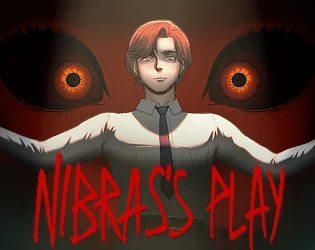
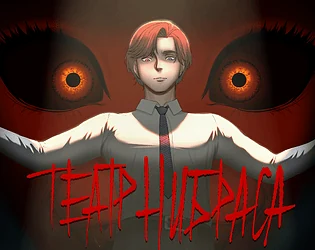
Обновить избранное, каталог и страницы игр
- Избранное: Театр Нибраса, Лопатель, A DVOR-KOLODETS
- Каталог отсортирован как в профиле itch.io: новые сверху
- Nibras's Play переименован в «Театр Нибраса», новая обложка и OG-превью, добавлена ссылка VK Play
- Авторы на странице игры — кнопки на itch-профили, блок «Над игрой работали» убран
- Удалена панель CTA со всех страниц, в шапке главной добавлена кнопка VK
- Осталась одна бегущая строка — с жанрами
- Обновлено описание в шапке главной
- README: порядок каталога, featuredSlugs, vkPlayUrl

diff --git a/src/data/games.ts b/src/data/games.ts
@@ -17,7 +17,7 @@ export type Game = {
   credits: string[];
   jam?: string;
   controls?: string;
-  featured?: boolean;
+  vkPlayUrl?: string;
   /**
    * Локальная веб-сборка, если она лежит в public/games/<slug>/.
    * Например: "/games/advorkolodets/play/"
@@ -30,7 +30,30 @@ const shot = (slug: string, n: number, title: string): Screenshot => ({
   alt: `Скриншот из игры «${title}»`,
 });
 
+/**
+ * Порядок в массиве = порядок в каталоге: сверху новые игры,
+ * как в профиле penquins.itch.io. Новую игру добавляйте в начало.
+ */
 export const games: Game[] = [
+  {
+    slug: "advorkolodets",
+    title: "A DVOR-KOLODETS",
+    tagline: "Каждый двор-колодец имеет двойное дно",
+    description: [
+      "Семья переезжает в дом с внутренним двором. Но в квартире всё чаще что-то меняется, а сосед напротив слишком внимательно смотрит из окна. Каждый двор-колодец имеет двойное дно.",
+      "Мистическая визуальная новелла о тесном дворе, чужих взглядах и неживом.",
+    ],
+    genre: "Визуальная новелла",
+    platforms: ["Windows"],
+    itchUrl: "https://penquins.itch.io/advorkolodets",
+    cover: "/covers/advorkolodets.webp",
+    screenshots: [
+      shot("advorkolodets", 1, "A DVOR-KOLODETS"),
+      shot("advorkolodets", 2, "A DVOR-KOLODETS"),
+      shot("advorkolodets", 3, "A DVOR-KOLODETS"),
+    ],
+    credits: ["Rankel", "lex4nder", "danya_balakhnin", "LehanFox", "Oz Fox"],
+  },
   {
     slug: "piece-of-knight",
     title: "Piece of Knight",
@@ -51,7 +74,6 @@ export const games: Game[] = [
     credits: ["lex4nder", "Oz Fox", "BACR", "Rankel"],
     jam: "Siberian Game Jam · ноябрь 2025",
     controls: "WASD — движение · ЛКМ / ПКМ — атака · Q / E / R — подбор «предметов»",
-    featured: true,
   },
   {
     slug: "absolute-brain-rot",
@@ -74,41 +96,22 @@ export const games: Game[] = [
     jam: "Mystery Game Jam 2025",
   },
   {
-    slug: "advorkolodets",
-    title: "A DVOR-KOLODETS",
-    tagline: "Каждый двор-колодец имеет двойное дно",
-    description: [
-      "Семья переезжает в дом с внутренним двором. Но в квартире всё чаще что-то меняется, а сосед напротив слишком внимательно смотрит из окна. Каждый двор-колодец имеет двойное дно.",
-      "Мистическая визуальная новелла о тесном дворе, чужих взглядах и неживом.",
-    ],
-    genre: "Визуальная новелла",
-    platforms: ["Windows"],
-    itchUrl: "https://penquins.itch.io/advorkolodets",
-    cover: "/covers/advorkolodets.webp",
-    screenshots: [
-      shot("advorkolodets", 1, "A DVOR-KOLODETS"),
-      shot("advorkolodets", 2, "A DVOR-KOLODETS"),
-      shot("advorkolodets", 3, "A DVOR-KOLODETS"),
-    ],
-    credits: ["Rankel", "lex4nder", "danya_balakhnin", "LehanFox", "Oz Fox"],
-    featured: true,
-  },
-  {
     slug: "nibras-play-deluxe",
-    title: "Nibras's Play — Deluxe",
-    tagline: "Play is Nibras. Now with two extra stories!",
+    title: "Театр Нибраса",
+    tagline: "Вся жизнь — театр, а театр — Нибраса!",
     description: [
       "В провинциальном театре происходит череда загадочных происшествий, и «консультант по изгнанию» берётся снять проклятие. Прямо на его глазах случается убийство — и герой уверен, что всему есть рациональное объяснение. Осталось найти виновного.",
-      "Deluxe-версия — две разные трактовки одной истории и бонус.",
+      "Версия с двумя разными трактовками одной истории и бонусом.",
     ],
     genre: "Визуальная новелла",
     platforms: ["Windows"],
     itchUrl: "https://penquins.itch.io/nibras-play-deluxe",
+    vkPlayUrl: "https://vkplay.ru/play/game/nibras-play-39828",
     cover: "/covers/nibras-play-deluxe.webp",
     screenshots: [
-      shot("nibras-play-deluxe", 1, "Nibras's Play — Deluxe"),
-      shot("nibras-play-deluxe", 2, "Nibras's Play — Deluxe"),
-      shot("nibras-play-deluxe", 3, "Nibras's Play — Deluxe"),
+      shot("nibras-play-deluxe", 1, "Театр Нибраса"),
+      shot("nibras-play-deluxe", 2, "Театр Нибраса"),
+      shot("nibras-play-deluxe", 3, "Театр Нибраса"),
     ],
     credits: ["lex4nder", "Rankel", "BACR", "Oz Fox"],
   },
@@ -128,7 +131,6 @@ export const games: Game[] = [
     screenshots: [],
     credits: ["Rankel", "BACR", "lex4nder", "Aki_ona", "Oz Fox"],
     controls: "A / D или ← / → — движение · S или ↓ — копать · не забывайте кормить котиков",
-    featured: true,
   },
   {
     slug: "bikerunner",
@@ -210,7 +212,15 @@ export const games: Game[] = [
   },
 ];
 
-export const featuredGames = games.filter((game) => game.featured);
+const featuredSlugs = ["nibras-play-deluxe", "shigger", "advorkolodets"];
+
+export const featuredGames = featuredSlugs.map((slug) => {
+  const game = games.find((item) => item.slug === slug);
+  if (!game) {
+    throw new Error(`Не найдена игра для главной: ${slug}`);
+  }
+  return game;
+});
 
 export const genres = [...new Set(games.map((game) => game.genre))];
 

diff --git a/src/styles/global.css b/src/styles/global.css
@@ -326,10 +326,6 @@ h3 {
   padding-block: clamp(48px, 6.5vw, 84px);
 }
 
-.section--tight {
-  padding-block: clamp(32px, 5vw, 56px);
-}
-
 .section-head {
   display: flex;
   align-items: flex-end;
@@ -599,19 +595,10 @@ h3 {
   background: rgba(11, 19, 28, 0.55);
 }
 
-.marquee + .marquee {
-  border-top: 0;
-  background: rgba(9, 16, 24, 0.4);
-}
-
 .marquee__track {
   display: flex;
   width: max-content;
-  animation: marquee var(--marquee-duration, 44s) linear infinite;
-}
-
-.marquee__track--reverse {
-  animation-direction: reverse;
+  animation: marquee 44s linear infinite;
 }
 
 .marquee:hover .marquee__track {
@@ -1144,6 +1131,35 @@ h3 {
   grid-column: 1 / -1;
 }
 
+.game-meta__authors dd {
+  display: flex;
+  flex-wrap: wrap;
+  gap: 7px;
+}
+
+.credit-chip {
+  display: inline-flex;
+  align-items: center;
+  padding: 5px 11px;
+  border: 1px solid var(--line);
+  border-radius: 999px;
+  background: rgba(143, 227, 255, 0.035);
+  font-size: 13px;
+  line-height: 1.3;
+  color: var(--muted);
+  text-decoration: none;
+  transition:
+    border-color 0.2s ease,
+    background-color 0.2s ease,
+    color 0.2s ease;
+}
+
+.credit-chip:hover {
+  border-color: var(--line-strong);
+  background: rgba(143, 227, 255, 0.08);
+  color: var(--text);
+}
+
 .game-section {
   display: grid;
   grid-template-columns: 190px minmax(0, 1fr);
@@ -1219,12 +1235,6 @@ h3 {
   border: 1px solid var(--line);
   border-radius: 14px;
   background: var(--panel);
-}
-
-.game-credits {
-  display: flex;
-  flex-wrap: wrap;
-  gap: 8px;
 }
 
 /* ---------- About page ---------- */
@@ -1320,61 +1330,6 @@ h3 {
   background: rgba(143, 227, 255, 0.08);
   color: var(--text);
   transform: translateY(-2px);
-}
-
-/* ---------- CTA panel ---------- */
-
-.cta-panel {
-  position: relative;
-  display: flex;
-  flex-wrap: wrap;
-  align-items: center;
-  justify-content: space-between;
-  gap: 28px;
-  overflow: hidden;
-  padding: clamp(28px, 5vw, 52px);
-  border: 1px solid var(--line-strong);
-  border-radius: var(--radius-lg);
-  background:
-    radial-gradient(520px 300px at 88% 18%, rgba(143, 227, 255, 0.16), transparent 70%),
-    linear-gradient(120deg, rgba(16, 33, 46, 0.95), rgba(8, 16, 24, 0.98));
-}
-
-.cta-panel::after {
-  content: "";
-  position: absolute;
-  right: -40px;
-  top: -60px;
-  width: 260px;
-  height: 260px;
-  border: 1px solid var(--line);
-  border-radius: 50%;
-  pointer-events: none;
-}
-
-.cta-panel h2 {
-  max-width: 20ch;
-  margin: 10px 0 10px;
-  font-family: var(--font-display);
-  font-size: clamp(25px, 3.4vw, 38px);
-  font-weight: 800;
-  line-height: 1.08;
-  letter-spacing: -0.03em;
-}
-
-.cta-panel p {
-  max-width: 52ch;
-  margin: 0;
-  color: var(--muted);
-  font-size: 15px;
-}
-
-.cta-panel__actions {
-  position: relative;
-  z-index: 1;
-  display: flex;
-  flex-wrap: wrap;
-  gap: 12px;
 }
 
 /* ---------- 404 ---------- */
@@ -1618,11 +1573,6 @@ h3 {
 
   .footer-brand {
     max-width: 100%;
-  }
-
-  .cta-panel {
-    align-items: flex-start;
-    flex-direction: column;
   }
 }
 

diff --git a/README.md b/README.md
@@ -32,7 +32,7 @@ npm run check
 src/
   data/games.ts          — все игры: тексты, жанры, ссылки, обложки, скриншоты
   layouts/BaseLayout.astro
-  components/            — шапка, подвал, карточка игры, бегущая строка, CTA
+  components/            — шапка, подвал, карточка игры, бегущая строка
   pages/
     index.astro          — главная
     games/index.astro    — каталог
@@ -59,8 +59,10 @@ public/
 3. Положите обложку в `public/covers/<slug>.webp`, скриншоты — в `public/shots/`.
 4. Сделайте превью для соцсетей `public/og/<slug>.jpg` (1200×630) — оно подставляется в `og:image` страницы игры.
 5. Для игры в браузере укажите `browser: true` и ссылку на itch.io.
-6. Для избранного на главной — `featured: true` (на главной показываются первые три).
-7. Если в `credits` появился новый участник, добавьте ссылку на его itch-профиль в `memberProfiles` — там же, в `src/data/games.ts`.
+6. Порядок в массиве `games` = порядок в каталоге: сверху новые игры, как в профиле на itch.io. Новую игру добавляйте в начало массива.
+7. Избранное на главной задаётся массивом `featuredSlugs` — порядок слогов в нём же определяет порядок карточек.
+8. Если у игры есть страница на VK Play, добавьте `vkPlayUrl` — рядом с кнопкой itch.io появится вторая кнопка.
+9. Если в `credits` появился новый участник, добавьте ссылку на его itch-профиль в `memberProfiles` — там же, в `src/data/games.ts`.
 
 Страница игры и карточка в каталоге создадутся автоматически.
 
@@ -73,7 +75,7 @@ public/
 /games/?author=Oz%20Fox
 ```
 
-На главной две бегущие строки — жанры и авторы. Порядок в них перемешивается при каждой загрузке страницы (маленький инлайновый скрипт), а сами подписи — ссылки на каталог с нужным фильтром. Строки декоративные и скрыты от скринридеров: те же фильтры доступны кнопками на странице «Игры».
+На главной бегущая строка показывает жанры. Порядок перемешивается при каждой загрузке страницы (маленький инлайновый скрипт), а сами подписи — ссылки на каталог с нужным фильтром. Строка декоративная и скрыта от скринридеров: те же фильтры доступны кнопками на странице «Игры».
 
 Случайные обложки в шапке главной выбираются из всех игр при открытии страницы.
 
